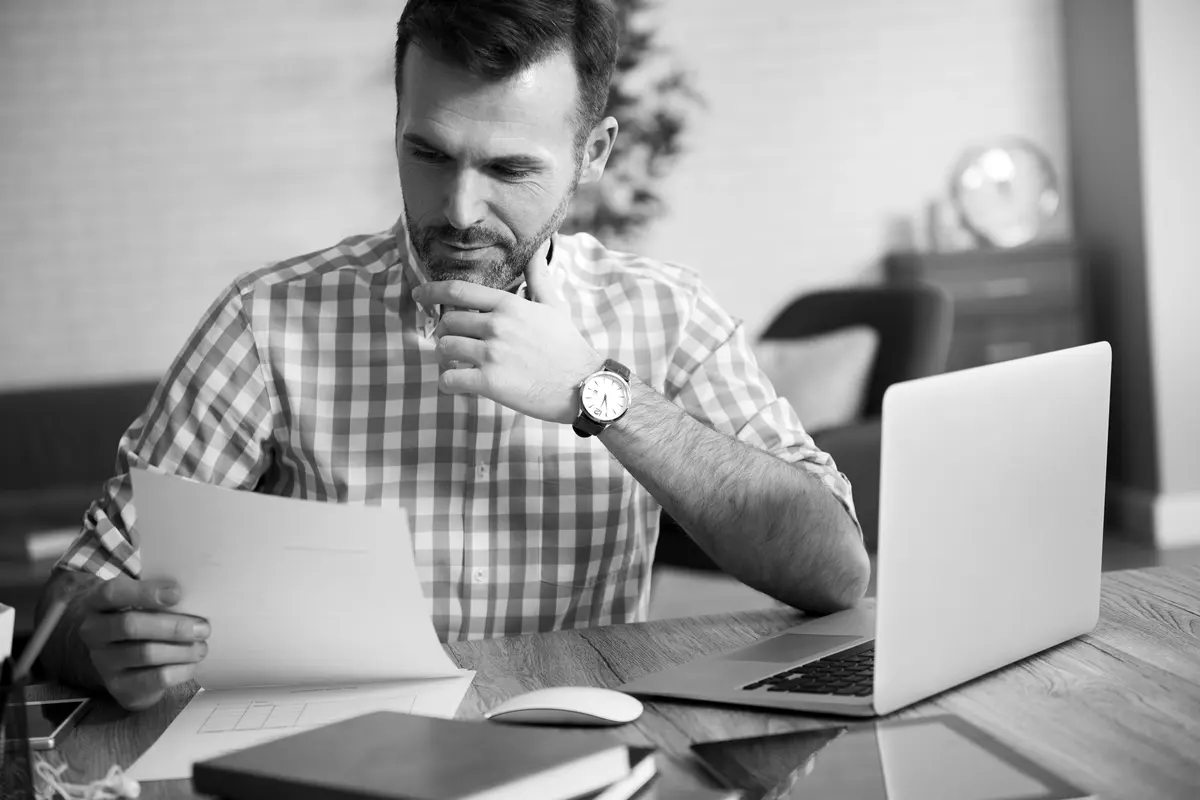
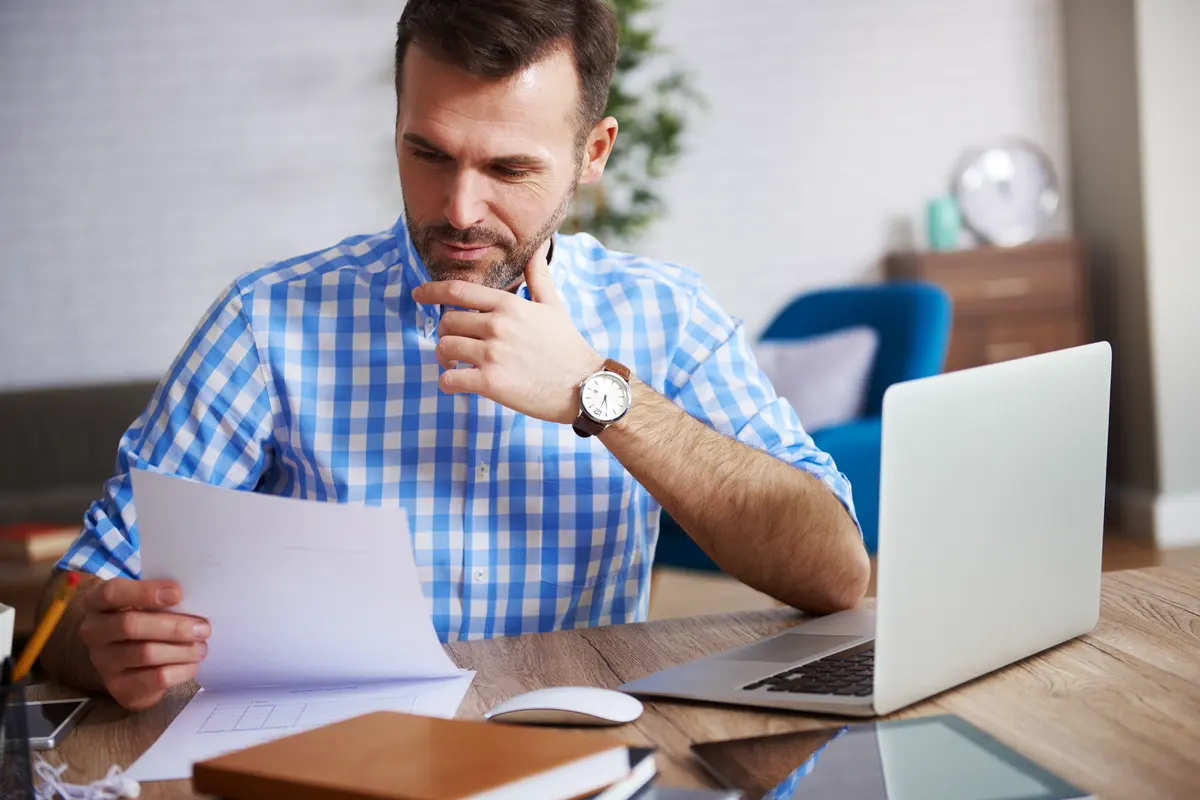
Ajustes visuais: fotos coloridas, destaque verde, cards de situações e ícones nas listas
- Remove o segundo logo do topo no mobile
- 'especializada' em verde
- Atalhos 01/02/03 do topo com fundo translúcido mais claro
- Regiões sem o RJ riscado
- Situações em cards com ícones
- Listas com ícones de check no lugar dos traços

Claude-Session: https://claude.ai/code/session_01QwhNRGadjS8GQLV6cqAxXe

diff --git a/index.html b/index.html
@@ -54,11 +54,11 @@
   <div aria-hidden="true" style="position:absolute; inset:0; background:rgba(16,16,16,.8)"></div>
   <div aria-hidden="true" style="position:absolute; inset:auto 0 0 0; height:260px; background:linear-gradient(0deg, #101010 0%, rgba(16,16,16,0) 100%)"></div>
   <div style="position:relative; max-width:960px; width:100%; margin:0 auto; padding:190px 24px 40px; display:flex; flex-direction:column; align-items:center; text-align:center; gap:30px">
-    <img decoding="async" width="187" height="203" src="/assets/img/simbolo-branco.png" alt="" aria-hidden="true" style="width:64px; height:auto; display:block; opacity:.9">
+    <img decoding="async" width="187" height="203" class="m-hide" src="/assets/img/simbolo-branco.png" alt="" aria-hidden="true" style="width:64px; height:auto; display:block; opacity:.9">
     <div style="display:flex; gap:14px; align-items:center; font-size:12px; letter-spacing:.28em; color:#F2F2F2">
       <span style="width:32px; height:1px; background:#25D366" aria-hidden="true"></span>DR. LUIS VAZ · DIREITO BANCÁRIO<span style="width:32px; height:1px; background:#25D366" aria-hidden="true"></span>
     </div>
-    <h1 style="margin:0; font-family:Manrope, sans-serif; font-weight:600; letter-spacing:-.03em; font-size:clamp(40px, 6vw, 76px); line-height:1.04">Problemas com bancos exigem uma análise <em style="color:#888888; font-style:normal">especializada.</em></h1>
+    <h1 style="margin:0; font-family:Manrope, sans-serif; font-weight:600; letter-spacing:-.03em; font-size:clamp(40px, 6vw, 76px); line-height:1.04">Problemas com bancos exigem uma análise <em style="color:#25D366; font-style:normal">especializada.</em></h1>
     <p style="margin:0; max-width:600px; font-size:18px; line-height:1.6; color:#F2F2F2">Atuação jurídica em contratos bancários, busca e apreensão de veículos e fraudes financeiras, com atendimento online nas regiões Sul e Sudeste.</p>
     <div style="display:flex; flex-direction:column; gap:14px; align-items:center">
       <a class="cta" href="#form" style="border-radius:12px; text-decoration:none; display:inline-flex; align-items:center; gap:12px; background:#25D366; color:#101010; padding:18px 30px; font-weight:600; font-size:16px; min-height:56px">
@@ -70,9 +70,9 @@
   </div>
   <div style="position:relative; max-width:1000px; width:100%; margin:0 auto; padding:32px 24px 48px">
     <div style="display:grid; grid-template-columns:repeat(auto-fit, minmax(240px, 1fr)); gap:12px">
-      <a href="#revisional" style="text-decoration:none; padding:18px 20px; display:flex; gap:14px; align-items:center; justify-content:center; color:#FFFFFF; background:rgba(255,255,255,.06); border:1px solid rgba(255,255,255,.16); border-radius:14px"><span style="font-family:Manrope, sans-serif; font-weight:700; font-size:15px; color:#25D366">01</span><span style="font-size:15px">Revisional de contratos</span></a>
-      <a href="#busca-e-apreensao" style="text-decoration:none; padding:18px 20px; display:flex; gap:14px; align-items:center; justify-content:center; color:#FFFFFF; background:rgba(255,255,255,.06); border:1px solid rgba(255,255,255,.16); border-radius:14px"><span style="font-family:Manrope, sans-serif; font-weight:700; font-size:15px; color:#25D366">02</span><span style="font-size:15px">Busca e apreensão</span></a>
-      <a href="#fraudes" style="text-decoration:none; padding:18px 20px; display:flex; gap:14px; align-items:center; justify-content:center; color:#FFFFFF; background:rgba(255,255,255,.06); border:1px solid rgba(255,255,255,.16); border-radius:14px"><span style="font-family:Manrope, sans-serif; font-weight:700; font-size:15px; color:#25D366">03</span><span style="font-size:15px">Fraudes bancárias</span></a>
+      <a href="#revisional" style="text-decoration:none; padding:18px 20px; display:flex; gap:14px; align-items:center; justify-content:center; color:#FFFFFF; background:rgba(255,255,255,.16); border:1px solid rgba(255,255,255,.34); border-radius:14px; backdrop-filter:blur(10px); -webkit-backdrop-filter:blur(10px); font-weight:500"><span style="font-family:Manrope, sans-serif; font-weight:700; font-size:15px; color:#25D366">01</span><span style="font-size:15px">Revisional de contratos</span></a>
+      <a href="#busca-e-apreensao" style="text-decoration:none; padding:18px 20px; display:flex; gap:14px; align-items:center; justify-content:center; color:#FFFFFF; background:rgba(255,255,255,.16); border:1px solid rgba(255,255,255,.34); border-radius:14px; backdrop-filter:blur(10px); -webkit-backdrop-filter:blur(10px); font-weight:500"><span style="font-family:Manrope, sans-serif; font-weight:700; font-size:15px; color:#25D366">02</span><span style="font-size:15px">Busca e apreensão</span></a>
+      <a href="#fraudes" style="text-decoration:none; padding:18px 20px; display:flex; gap:14px; align-items:center; justify-content:center; color:#FFFFFF; background:rgba(255,255,255,.16); border:1px solid rgba(255,255,255,.34); border-radius:14px; backdrop-filter:blur(10px); -webkit-backdrop-filter:blur(10px); font-weight:500"><span style="font-family:Manrope, sans-serif; font-weight:700; font-size:15px; color:#25D366">03</span><span style="font-size:15px">Fraudes bancárias</span></a>
     </div>
   </div>
 </section>
@@ -109,9 +109,7 @@
         <span style="width:48px; height:48px; border-radius:12px; background:#292929; color:#FFFFFF; display:flex; align-items:center; justify-content:center; font-size:14px; font-weight:600">SP</span>
         <span style="width:48px; height:48px; border-radius:12px; background:#292929; color:#FFFFFF; display:flex; align-items:center; justify-content:center; font-size:14px; font-weight:600">MG</span>
         <span style="width:48px; height:48px; border-radius:12px; background:#292929; color:#FFFFFF; display:flex; align-items:center; justify-content:center; font-size:14px; font-weight:600">ES</span>
-        <span style="width:48px; height:48px; border-radius:12px; border:1px dashed #888888; color:#292929; display:flex; align-items:center; justify-content:center; font-size:14px; text-decoration:line-through">RJ</span>
       </div>
-      <span style="font-size:13px; color:#292929">Regiões Sul e Sudeste, exceto Rio de Janeiro.</span>
     </div>
   </div>
 </section>
@@ -128,14 +126,32 @@
         <span style="font-size:12px; letter-spacing:.28em; color:#292929">SITUAÇÕES QUE ATENDEMOS</span>
         <h2 style="margin:0; font-family:Manrope, sans-serif; font-weight:600; letter-spacing:-.025em; font-size:clamp(30px, 3.6vw, 44px); line-height:1.12">Quando a relação com o banco se torna um problema, conhecer seus direitos é <em style="font-style:normal; color:#888888">fundamental.</em></h2>
       </div>
-      <ul style="margin:0; padding:0; list-style:none; display:grid; grid-template-columns:repeat(auto-fit, minmax(230px, 1fr)); column-gap:32px">
-        <li style="border-top:1px solid #101010; padding:18px 0 22px; display:flex; gap:14px; align-items:flex-start"><span style="font-family:Manrope, sans-serif; font-weight:600; font-size:20px; color:#292929; min-width:24px">i.</span><span style="font-size:16px; line-height:1.45">Juros e encargos em contratos bancários.</span></li>
-        <li style="border-top:1px solid #101010; padding:18px 0 22px; display:flex; gap:14px; align-items:flex-start"><span style="font-family:Manrope, sans-serif; font-weight:600; font-size:20px; color:#292929; min-width:24px">ii.</span><span style="font-size:16px; line-height:1.45">Parcelas de financiamento que se tornaram difíceis de administrar.</span></li>
-        <li style="border-top:1px solid #101010; padding:18px 0 22px; display:flex; gap:14px; align-items:flex-start"><span style="font-family:Manrope, sans-serif; font-weight:600; font-size:20px; color:#292929; min-width:24px">iii.</span><span style="font-size:16px; line-height:1.45">Veículo apreendido ou sob risco de apreensão.</span></li>
-        <li style="border-top:1px solid #101010; padding:18px 0 22px; display:flex; gap:14px; align-items:flex-start"><span style="font-family:Manrope, sans-serif; font-weight:600; font-size:20px; color:#292929; min-width:24px">iv.</span><span style="font-size:16px; line-height:1.45">Transações bancárias não reconhecidas.</span></li>
-        <li style="border-top:1px solid #101010; padding:18px 0 22px; display:flex; gap:14px; align-items:flex-start"><span style="font-family:Manrope, sans-serif; font-weight:600; font-size:20px; color:#292929; min-width:24px">v.</span><span style="font-size:16px; line-height:1.45">Golpes financeiros e PIX não autorizado.</span></li>
-        <li style="border-top:1px solid #101010; padding:18px 0 22px; display:flex; gap:14px; align-items:flex-start"><span style="font-family:Manrope, sans-serif; font-weight:600; font-size:20px; color:#292929; min-width:24px">vi.</span><span style="font-size:16px; line-height:1.45">Dívidas empresariais com instituições financeiras.</span></li>
-      </ul>
+      <div style="display:grid; grid-template-columns:repeat(auto-fit, minmax(240px, 1fr)); gap:12px">
+        <div class="sit" style="border-radius:16px; background:#F2F2F2; padding:20px; display:flex; gap:16px; align-items:flex-start">
+          <span aria-hidden="true" style="width:46px; height:46px; border-radius:13px; background:#101010; display:flex; align-items:center; justify-content:center; flex:0 0 auto"><svg width="22" height="22" viewBox="0 0 24 24" fill="none" stroke="#25D366" stroke-width="1.8" stroke-linecap="round" stroke-linejoin="round"><line x1="19" y1="5" x2="5" y2="19"></line><circle cx="6.5" cy="6.5" r="2.5"></circle><circle cx="17.5" cy="17.5" r="2.5"></circle></svg></span>
+          <div style="display:flex; flex-direction:column; gap:4px"><strong style="font-family:Manrope, sans-serif; font-weight:700; font-size:16px; letter-spacing:-.01em">Juros e encargos</strong><span style="font-size:14px; line-height:1.5; color:#292929">Juros e encargos em contratos bancários.</span></div>
+        </div>
+        <div class="sit" style="border-radius:16px; background:#F2F2F2; padding:20px; display:flex; gap:16px; align-items:flex-start">
+          <span aria-hidden="true" style="width:46px; height:46px; border-radius:13px; background:#101010; display:flex; align-items:center; justify-content:center; flex:0 0 auto"><svg width="22" height="22" viewBox="0 0 24 24" fill="none" stroke="#25D366" stroke-width="1.8" stroke-linecap="round" stroke-linejoin="round"><rect x="3" y="4" width="18" height="18" rx="2"></rect><path d="M16 2v4M8 2v4M3 10h18"></path><path d="M8 15h3"></path></svg></span>
+          <div style="display:flex; flex-direction:column; gap:4px"><strong style="font-family:Manrope, sans-serif; font-weight:700; font-size:16px; letter-spacing:-.01em">Financiamento</strong><span style="font-size:14px; line-height:1.5; color:#292929">Parcelas de financiamento que se tornaram difíceis de administrar.</span></div>
+        </div>
+        <div class="sit" style="border-radius:16px; background:#F2F2F2; padding:20px; display:flex; gap:16px; align-items:flex-start">
+          <span aria-hidden="true" style="width:46px; height:46px; border-radius:13px; background:#101010; display:flex; align-items:center; justify-content:center; flex:0 0 auto"><svg width="22" height="22" viewBox="0 0 24 24" fill="none" stroke="#25D366" stroke-width="1.8" stroke-linecap="round" stroke-linejoin="round"><path d="M5 17H3v-5l2.2-5.5A2 2 0 0 1 7.1 5h9.8a2 2 0 0 1 1.9 1.5L21 12v5h-2"></path><path d="M9 17h6"></path><circle cx="7" cy="17" r="2"></circle><circle cx="17" cy="17" r="2"></circle><path d="M3 12h18"></path></svg></span>
+          <div style="display:flex; flex-direction:column; gap:4px"><strong style="font-family:Manrope, sans-serif; font-weight:700; font-size:16px; letter-spacing:-.01em">Veículo</strong><span style="font-size:14px; line-height:1.5; color:#292929">Veículo apreendido ou sob risco de apreensão.</span></div>
+        </div>
+        <div class="sit" style="border-radius:16px; background:#F2F2F2; padding:20px; display:flex; gap:16px; align-items:flex-start">
+          <span aria-hidden="true" style="width:46px; height:46px; border-radius:13px; background:#101010; display:flex; align-items:center; justify-content:center; flex:0 0 auto"><svg width="22" height="22" viewBox="0 0 24 24" fill="none" stroke="#25D366" stroke-width="1.8" stroke-linecap="round" stroke-linejoin="round"><rect x="2" y="5" width="20" height="14" rx="2"></rect><path d="M2 10h20"></path><path d="m15 14 3 3M18 14l-3 3"></path></svg></span>
+          <div style="display:flex; flex-direction:column; gap:4px"><strong style="font-family:Manrope, sans-serif; font-weight:700; font-size:16px; letter-spacing:-.01em">Transações</strong><span style="font-size:14px; line-height:1.5; color:#292929">Transações bancárias não reconhecidas.</span></div>
+        </div>
+        <div class="sit" style="border-radius:16px; background:#F2F2F2; padding:20px; display:flex; gap:16px; align-items:flex-start">
+          <span aria-hidden="true" style="width:46px; height:46px; border-radius:13px; background:#101010; display:flex; align-items:center; justify-content:center; flex:0 0 auto"><svg width="22" height="22" viewBox="0 0 24 24" fill="none" stroke="#25D366" stroke-width="1.8" stroke-linecap="round" stroke-linejoin="round"><rect x="6" y="2" width="12" height="20" rx="2.5"></rect><path d="M12 8v4"></path><path d="M12 16h.01"></path></svg></span>
+          <div style="display:flex; flex-direction:column; gap:4px"><strong style="font-family:Manrope, sans-serif; font-weight:700; font-size:16px; letter-spacing:-.01em">Golpes e PIX</strong><span style="font-size:14px; line-height:1.5; color:#292929">Golpes financeiros e PIX não autorizado.</span></div>
+        </div>
+        <div class="sit" style="border-radius:16px; background:#F2F2F2; padding:20px; display:flex; gap:16px; align-items:flex-start">
+          <span aria-hidden="true" style="width:46px; height:46px; border-radius:13px; background:#101010; display:flex; align-items:center; justify-content:center; flex:0 0 auto"><svg width="22" height="22" viewBox="0 0 24 24" fill="none" stroke="#25D366" stroke-width="1.8" stroke-linecap="round" stroke-linejoin="round"><rect x="4" y="2" width="16" height="20" rx="2"></rect><path d="M9 22v-4h6v4"></path><path d="M8 6h.01M12 6h.01M16 6h.01M8 10h.01M12 10h.01M16 10h.01M8 14h.01M12 14h.01M16 14h.01"></path></svg></span>
+          <div style="display:flex; flex-direction:column; gap:4px"><strong style="font-family:Manrope, sans-serif; font-weight:700; font-size:16px; letter-spacing:-.01em">Empresas</strong><span style="font-size:14px; line-height:1.5; color:#292929">Dívidas empresariais com instituições financeiras.</span></div>
+        </div>
+      </div>
     </div>
   </div>
 </section>
@@ -157,10 +173,10 @@
         <h3 style="margin:0; font-family:Manrope, sans-serif; font-weight:600; letter-spacing:-.025em; font-size:clamp(26px, 2.8vw, 34px); line-height:1.15">Revisional de contratos bancários</h3>
         <p style="margin:0; font-size:16px; line-height:1.65; color:#F2F2F2">Análise técnica de contratos e operações financeiras para identificar cláusulas, encargos e condições que possam ser questionados juridicamente.</p>
         <ul style="margin:0; padding:0; list-style:none; display:grid; grid-template-columns:repeat(2, minmax(0, 1fr)); gap:12px 24px; font-size:15px; color:#F2F2F2">
-          <li style="display:flex; gap:10px; align-items:center"><span style="width:14px; height:1px; background:#25D366; flex:0 0 auto" aria-hidden="true"></span>Financiamento de veículos</li>
-          <li style="display:flex; gap:10px; align-items:center"><span style="width:14px; height:1px; background:#25D366; flex:0 0 auto" aria-hidden="true"></span>Cartão de crédito</li>
-          <li style="display:flex; gap:10px; align-items:center"><span style="width:14px; height:1px; background:#25D366; flex:0 0 auto" aria-hidden="true"></span>Cheque especial</li>
-          <li style="display:flex; gap:10px; align-items:center"><span style="width:14px; height:1px; background:#25D366; flex:0 0 auto" aria-hidden="true"></span>Capital de giro empresarial</li>
+          <li style="display:flex; gap:12px; align-items:center"><span aria-hidden="true" style="width:24px; height:24px; border-radius:8px; background:rgba(37,211,102,.16); display:inline-flex; align-items:center; justify-content:center; flex:0 0 auto"><svg width="14" height="14" viewBox="0 0 24 24" fill="none" stroke="#25D366" stroke-width="2.6" stroke-linecap="round" stroke-linejoin="round"><path d="M20 6 9 17l-5-5"></path></svg></span>Financiamento de veículos</li>
+          <li style="display:flex; gap:12px; align-items:center"><span aria-hidden="true" style="width:24px; height:24px; border-radius:8px; background:rgba(37,211,102,.16); display:inline-flex; align-items:center; justify-content:center; flex:0 0 auto"><svg width="14" height="14" viewBox="0 0 24 24" fill="none" stroke="#25D366" stroke-width="2.6" stroke-linecap="round" stroke-linejoin="round"><path d="M20 6 9 17l-5-5"></path></svg></span>Cartão de crédito</li>
+          <li style="display:flex; gap:12px; align-items:center"><span aria-hidden="true" style="width:24px; height:24px; border-radius:8px; background:rgba(37,211,102,.16); display:inline-flex; align-items:center; justify-content:center; flex:0 0 auto"><svg width="14" height="14" viewBox="0 0 24 24" fill="none" stroke="#25D366" stroke-width="2.6" stroke-linecap="round" stroke-linejoin="round"><path d="M20 6 9 17l-5-5"></path></svg></span>Cheque especial</li>
+          <li style="display:flex; gap:12px; align-items:center"><span aria-hidden="true" style="width:24px; height:24px; border-radius:8px; background:rgba(37,211,102,.16); display:inline-flex; align-items:center; justify-content:center; flex:0 0 auto"><svg width="14" height="14" viewBox="0 0 24 24" fill="none" stroke="#25D366" stroke-width="2.6" stroke-linecap="round" stroke-linejoin="round"><path d="M20 6 9 17l-5-5"></path></svg></span>Capital de giro empresarial</li>
         </ul>
         <p style="margin:0; font-size:13px; color:#888888; border-top:1px solid #292929; padding-top:14px">Contratos a partir de R$ 20 mil. Não atendemos financiamento imobiliário nem contratos relacionados ao FGI.</p>
       </div>
@@ -175,11 +191,11 @@
         <h3 style="margin:0; font-family:Manrope, sans-serif; font-weight:600; letter-spacing:-.025em; font-size:clamp(26px, 2.8vw, 34px); line-height:1.15">Busca e apreensão de veículos</h3>
         <p style="margin:0; font-size:16px; line-height:1.65; color:#F2F2F2">Atuação jurídica na defesa dos direitos de quem enfrenta uma ação de busca e apreensão ou já teve seu veículo apreendido.</p>
         <ul style="margin:0; padding:0; list-style:none; display:flex; flex-direction:column; gap:12px; font-size:15px; color:#F2F2F2">
-          <li style="display:flex; gap:10px; align-items:center"><span style="width:14px; height:1px; background:#25D366; flex:0 0 auto" aria-hidden="true"></span>Defesa em ações de busca e apreensão</li>
-          <li style="display:flex; gap:10px; align-items:center"><span style="width:14px; height:1px; background:#25D366; flex:0 0 auto" aria-hidden="true"></span>Análise das condições da apreensão</li>
-          <li style="display:flex; gap:10px; align-items:center"><span style="width:14px; height:1px; background:#25D366; flex:0 0 auto" aria-hidden="true"></span>Possibilidades jurídicas para recuperação do veículo</li>
-          <li style="display:flex; gap:10px; align-items:center"><span style="width:14px; height:1px; background:#25D366; flex:0 0 auto" aria-hidden="true"></span>Revisão das condições contratuais</li>
-          <li style="display:flex; gap:10px; align-items:center"><span style="width:14px; height:1px; background:#25D366; flex:0 0 auto" aria-hidden="true"></span>Apreensões potencialmente ilegais</li>
+          <li style="display:flex; gap:12px; align-items:center"><span aria-hidden="true" style="width:24px; height:24px; border-radius:8px; background:rgba(37,211,102,.16); display:inline-flex; align-items:center; justify-content:center; flex:0 0 auto"><svg width="14" height="14" viewBox="0 0 24 24" fill="none" stroke="#25D366" stroke-width="2.6" stroke-linecap="round" stroke-linejoin="round"><path d="M20 6 9 17l-5-5"></path></svg></span>Defesa em ações de busca e apreensão</li>
+          <li style="display:flex; gap:12px; align-items:center"><span aria-hidden="true" style="width:24px; height:24px; border-radius:8px; background:rgba(37,211,102,.16); display:inline-flex; align-items:center; justify-content:center; flex:0 0 auto"><svg width="14" height="14" viewBox="0 0 24 24" fill="none" stroke="#25D366" stroke-width="2.6" stroke-linecap="round" stroke-linejoin="round"><path d="M20 6 9 17l-5-5"></path></svg></span>Análise das condições da apreensão</li>
+          <li style="display:flex; gap:12px; align-items:center"><span aria-hidden="true" style="width:24px; height:24px; border-radius:8px; background:rgba(37,211,102,.16); display:inline-flex; align-items:center; justify-content:center; flex:0 0 auto"><svg width="14" height="14" viewBox="0 0 24 24" fill="none" stroke="#25D366" stroke-width="2.6" stroke-linecap="round" stroke-linejoin="round"><path d="M20 6 9 17l-5-5"></path></svg></span>Possibilidades jurídicas para recuperação do veículo</li>
+          <li style="display:flex; gap:12px; align-items:center"><span aria-hidden="true" style="width:24px; height:24px; border-radius:8px; background:rgba(37,211,102,.16); display:inline-flex; align-items:center; justify-content:center; flex:0 0 auto"><svg width="14" height="14" viewBox="0 0 24 24" fill="none" stroke="#25D366" stroke-width="2.6" stroke-linecap="round" stroke-linejoin="round"><path d="M20 6 9 17l-5-5"></path></svg></span>Revisão das condições contratuais</li>
+          <li style="display:flex; gap:12px; align-items:center"><span aria-hidden="true" style="width:24px; height:24px; border-radius:8px; background:rgba(37,211,102,.16); display:inline-flex; align-items:center; justify-content:center; flex:0 0 auto"><svg width="14" height="14" viewBox="0 0 24 24" fill="none" stroke="#25D366" stroke-width="2.6" stroke-linecap="round" stroke-linejoin="round"><path d="M20 6 9 17l-5-5"></path></svg></span>Apreensões potencialmente ilegais</li>
         </ul>
         <p style="margin:0; font-size:13px; color:#888888; border-top:1px solid #292929; padding-top:14px">Veículos a partir de R$ 30 mil.</p>
       </div>
@@ -194,11 +210,11 @@
         <h3 style="margin:0; font-family:Manrope, sans-serif; font-weight:600; letter-spacing:-.025em; font-size:clamp(26px, 2.8vw, 34px); line-height:1.15">Fraudes bancárias</h3>
         <p style="margin:0; font-size:16px; line-height:1.65; color:#F2F2F2">Atuação jurídica em situações envolvendo movimentações financeiras não reconhecidas e prejuízos decorrentes de fraudes bancárias. Cada situação depende da análise dos fatos e das provas.</p>
         <ul style="margin:0; padding:0; list-style:none; display:grid; grid-template-columns:repeat(2, minmax(0, 1fr)); gap:12px 24px; font-size:15px; color:#F2F2F2">
-          <li style="display:flex; gap:10px; align-items:center"><span style="width:14px; height:1px; background:#25D366; flex:0 0 auto" aria-hidden="true"></span>Golpe do PIX</li>
-          <li style="display:flex; gap:10px; align-items:center"><span style="width:14px; height:1px; background:#25D366; flex:0 0 auto" aria-hidden="true"></span>Golpe da falsa central</li>
-          <li style="display:flex; gap:10px; align-items:center"><span style="width:14px; height:1px; background:#25D366; flex:0 0 auto" aria-hidden="true"></span>Invasão de contas</li>
-          <li style="display:flex; gap:10px; align-items:center"><span style="width:14px; height:1px; background:#25D366; flex:0 0 auto" aria-hidden="true"></span>Empréstimos não reconhecidos</li>
-          <li style="display:flex; gap:10px; align-items:center"><span style="width:14px; height:1px; background:#25D366; flex:0 0 auto" aria-hidden="true"></span>Transações não autorizadas</li>
+          <li style="display:flex; gap:12px; align-items:center"><span aria-hidden="true" style="width:24px; height:24px; border-radius:8px; background:rgba(37,211,102,.16); display:inline-flex; align-items:center; justify-content:center; flex:0 0 auto"><svg width="14" height="14" viewBox="0 0 24 24" fill="none" stroke="#25D366" stroke-width="2.6" stroke-linecap="round" stroke-linejoin="round"><path d="M20 6 9 17l-5-5"></path></svg></span>Golpe do PIX</li>
+          <li style="display:flex; gap:12px; align-items:center"><span aria-hidden="true" style="width:24px; height:24px; border-radius:8px; background:rgba(37,211,102,.16); display:inline-flex; align-items:center; justify-content:center; flex:0 0 auto"><svg width="14" height="14" viewBox="0 0 24 24" fill="none" stroke="#25D366" stroke-width="2.6" stroke-linecap="round" stroke-linejoin="round"><path d="M20 6 9 17l-5-5"></path></svg></span>Golpe da falsa central</li>
+          <li style="display:flex; gap:12px; align-items:center"><span aria-hidden="true" style="width:24px; height:24px; border-radius:8px; background:rgba(37,211,102,.16); display:inline-flex; align-items:center; justify-content:center; flex:0 0 auto"><svg width="14" height="14" viewBox="0 0 24 24" fill="none" stroke="#25D366" stroke-width="2.6" stroke-linecap="round" stroke-linejoin="round"><path d="M20 6 9 17l-5-5"></path></svg></span>Invasão de contas</li>
+          <li style="display:flex; gap:12px; align-items:center"><span aria-hidden="true" style="width:24px; height:24px; border-radius:8px; background:rgba(37,211,102,.16); display:inline-flex; align-items:center; justify-content:center; flex:0 0 auto"><svg width="14" height="14" viewBox="0 0 24 24" fill="none" stroke="#25D366" stroke-width="2.6" stroke-linecap="round" stroke-linejoin="round"><path d="M20 6 9 17l-5-5"></path></svg></span>Empréstimos não reconhecidos</li>
+          <li style="display:flex; gap:12px; align-items:center"><span aria-hidden="true" style="width:24px; height:24px; border-radius:8px; background:rgba(37,211,102,.16); display:inline-flex; align-items:center; justify-content:center; flex:0 0 auto"><svg width="14" height="14" viewBox="0 0 24 24" fill="none" stroke="#25D366" stroke-width="2.6" stroke-linecap="round" stroke-linejoin="round"><path d="M20 6 9 17l-5-5"></path></svg></span>Transações não autorizadas</li>
         </ul>
         <p style="margin:0; font-size:13px; color:#888888; border-top:1px solid #292929; padding-top:14px">Prejuízos a partir de R$ 20 mil.</p>
       </div>
@@ -316,21 +332,21 @@
     </div>
     <div style="display:grid; grid-template-columns:repeat(auto-fit, minmax(260px, 1fr)); gap:16px">
       <div style="border-radius:18px; background:#F2F2F2; padding:32px; display:flex; flex-direction:column; gap:18px">
-        <div style="display:flex; gap:14px; align-items:center"><svg width="30" height="30" viewBox="0 0 28 28" fill="none" stroke="#101010" stroke-width="1.4" aria-hidden="true"><path d="M3 8h8l2 3h12v13H3z"></path></svg><h3 style="margin:0; font-size:13px; letter-spacing:.2em; font-weight:600">BUSCA E APREENSÃO</h3></div>
+        <div style="display:flex; gap:14px; align-items:center"><span aria-hidden="true" style="width:44px; height:44px; border-radius:12px; background:#FFFFFF; display:flex; align-items:center; justify-content:center; flex:0 0 auto"><svg width="22" height="22" viewBox="0 0 24 24" fill="none" stroke="#101010" stroke-width="1.8" stroke-linecap="round" stroke-linejoin="round"><path d="M14 2H6a2 2 0 0 0-2 2v16a2 2 0 0 0 2 2h12a2 2 0 0 0 2-2V8z"></path><path d="M14 2v6h6"></path><path d="m9 15 2 2 4-4"></path></svg></span><h3 style="margin:0; font-size:13px; letter-spacing:.2em; font-weight:600">BUSCA E APREENSÃO</h3></div>
         <ul style="margin:0; padding:0; list-style:none; display:flex; flex-direction:column; gap:12px; font-size:15px; line-height:1.45; color:#292929">
-          <li style="display:flex; gap:10px; align-items:baseline"><span style="color:#101010" aria-hidden="true">—</span>Contrato de financiamento</li><li style="display:flex; gap:10px; align-items:baseline"><span style="color:#101010" aria-hidden="true">—</span>Notificações recebidas</li><li style="display:flex; gap:10px; align-items:baseline"><span style="color:#101010" aria-hidden="true">—</span>Informações sobre parcelas atrasadas</li><li style="display:flex; gap:10px; align-items:baseline"><span style="color:#101010" aria-hidden="true">—</span>Documentos da apreensão, quando houver</li>
+          <li style="display:flex; gap:12px; align-items:center"><span aria-hidden="true" style="width:24px; height:24px; border-radius:8px; background:#101010; display:inline-flex; align-items:center; justify-content:center; flex:0 0 auto"><svg width="14" height="14" viewBox="0 0 24 24" fill="none" stroke="#25D366" stroke-width="2.6" stroke-linecap="round" stroke-linejoin="round"><path d="M20 6 9 17l-5-5"></path></svg></span>Contrato de financiamento</li><li style="display:flex; gap:12px; align-items:center"><span aria-hidden="true" style="width:24px; height:24px; border-radius:8px; background:#101010; display:inline-flex; align-items:center; justify-content:center; flex:0 0 auto"><svg width="14" height="14" viewBox="0 0 24 24" fill="none" stroke="#25D366" stroke-width="2.6" stroke-linecap="round" stroke-linejoin="round"><path d="M20 6 9 17l-5-5"></path></svg></span>Notificações recebidas</li><li style="display:flex; gap:12px; align-items:center"><span aria-hidden="true" style="width:24px; height:24px; border-radius:8px; background:#101010; display:inline-flex; align-items:center; justify-content:center; flex:0 0 auto"><svg width="14" height="14" viewBox="0 0 24 24" fill="none" stroke="#25D366" stroke-width="2.6" stroke-linecap="round" stroke-linejoin="round"><path d="M20 6 9 17l-5-5"></path></svg></span>Informações sobre parcelas atrasadas</li><li style="display:flex; gap:12px; align-items:center"><span aria-hidden="true" style="width:24px; height:24px; border-radius:8px; background:#101010; display:inline-flex; align-items:center; justify-content:center; flex:0 0 auto"><svg width="14" height="14" viewBox="0 0 24 24" fill="none" stroke="#25D366" stroke-width="2.6" stroke-linecap="round" stroke-linejoin="round"><path d="M20 6 9 17l-5-5"></path></svg></span>Documentos da apreensão, quando houver</li>
         </ul>
       </div>
       <div style="border-radius:18px; background:#101010; color:#FFFFFF; padding:32px; display:flex; flex-direction:column; gap:18px">
-        <div style="display:flex; gap:14px; align-items:center"><svg width="30" height="30" viewBox="0 0 28 28" fill="none" stroke="#FFFFFF" stroke-width="1.4" aria-hidden="true"><path d="M3 8h8l2 3h12v13H3z"></path></svg><h3 style="margin:0; font-size:13px; letter-spacing:.2em; font-weight:600">REVISIONAL</h3></div>
+        <div style="display:flex; gap:14px; align-items:center"><span aria-hidden="true" style="width:44px; height:44px; border-radius:12px; background:rgba(37,211,102,.16); display:flex; align-items:center; justify-content:center; flex:0 0 auto"><svg width="22" height="22" viewBox="0 0 24 24" fill="none" stroke="#25D366" stroke-width="1.8" stroke-linecap="round" stroke-linejoin="round"><path d="M14 2H6a2 2 0 0 0-2 2v16a2 2 0 0 0 2 2h12a2 2 0 0 0 2-2V8z"></path><path d="M14 2v6h6"></path><path d="m9 15 2 2 4-4"></path></svg></span><h3 style="margin:0; font-size:13px; letter-spacing:.2em; font-weight:600">REVISIONAL</h3></div>
         <ul style="margin:0; padding:0; list-style:none; display:flex; flex-direction:column; gap:12px; font-size:15px; line-height:1.45; color:#F2F2F2">
-          <li style="display:flex; gap:10px; align-items:baseline"><span style="color:#25D366" aria-hidden="true">—</span>Contrato bancário</li><li style="display:flex; gap:10px; align-items:baseline"><span style="color:#25D366" aria-hidden="true">—</span>Demonstrativos e extratos</li><li style="display:flex; gap:10px; align-items:baseline"><span style="color:#25D366" aria-hidden="true">—</span>Comprovantes de pagamento</li><li style="display:flex; gap:10px; align-items:baseline"><span style="color:#25D366" aria-hidden="true">—</span>Informações sobre a operação financeira</li>
+          <li style="display:flex; gap:12px; align-items:center"><span aria-hidden="true" style="width:24px; height:24px; border-radius:8px; background:rgba(37,211,102,.16); display:inline-flex; align-items:center; justify-content:center; flex:0 0 auto"><svg width="14" height="14" viewBox="0 0 24 24" fill="none" stroke="#25D366" stroke-width="2.6" stroke-linecap="round" stroke-linejoin="round"><path d="M20 6 9 17l-5-5"></path></svg></span>Contrato bancário</li><li style="display:flex; gap:12px; align-items:center"><span aria-hidden="true" style="width:24px; height:24px; border-radius:8px; background:rgba(37,211,102,.16); display:inline-flex; align-items:center; justify-content:center; flex:0 0 auto"><svg width="14" height="14" viewBox="0 0 24 24" fill="none" stroke="#25D366" stroke-width="2.6" stroke-linecap="round" stroke-linejoin="round"><path d="M20 6 9 17l-5-5"></path></svg></span>Demonstrativos e extratos</li><li style="display:flex; gap:12px; align-items:center"><span aria-hidden="true" style="width:24px; height:24px; border-radius:8px; background:rgba(37,211,102,.16); display:inline-flex; align-items:center; justify-content:center; flex:0 0 auto"><svg width="14" height="14" viewBox="0 0 24 24" fill="none" stroke="#25D366" stroke-width="2.6" stroke-linecap="round" stroke-linejoin="round"><path d="M20 6 9 17l-5-5"></path></svg></span>Comprovantes de pagamento</li><li style="display:flex; gap:12px; align-items:center"><span aria-hidden="true" style="width:24px; height:24px; border-radius:8px; background:rgba(37,211,102,.16); display:inline-flex; align-items:center; justify-content:center; flex:0 0 auto"><svg width="14" height="14" viewBox="0 0 24 24" fill="none" stroke="#25D366" stroke-width="2.6" stroke-linecap="round" stroke-linejoin="round"><path d="M20 6 9 17l-5-5"></path></svg></span>Informações sobre a operação financeira</li>
         </ul>
       </div>
       <div style="border-radius:18px; background:#F2F2F2; padding:32px; display:flex; flex-direction:column; gap:18px">
-        <div style="display:flex; gap:14px; align-items:center"><svg width="30" height="30" viewBox="0 0 28 28" fill="none" stroke="#101010" stroke-width="1.4" aria-hidden="true"><path d="M3 8h8l2 3h12v13H3z"></path></svg><h3 style="margin:0; font-size:13px; letter-spacing:.2em; font-weight:600">FRAUDES BANCÁRIAS</h3></div>
+        <div style="display:flex; gap:14px; align-items:center"><span aria-hidden="true" style="width:44px; height:44px; border-radius:12px; background:#FFFFFF; display:flex; align-items:center; justify-content:center; flex:0 0 auto"><svg width="22" height="22" viewBox="0 0 24 24" fill="none" stroke="#101010" stroke-width="1.8" stroke-linecap="round" stroke-linejoin="round"><path d="M14 2H6a2 2 0 0 0-2 2v16a2 2 0 0 0 2 2h12a2 2 0 0 0 2-2V8z"></path><path d="M14 2v6h6"></path><path d="m9 15 2 2 4-4"></path></svg></span><h3 style="margin:0; font-size:13px; letter-spacing:.2em; font-weight:600">FRAUDES BANCÁRIAS</h3></div>
         <ul style="margin:0; padding:0; list-style:none; display:flex; flex-direction:column; gap:12px; font-size:15px; line-height:1.45; color:#292929">
-          <li style="display:flex; gap:10px; align-items:baseline"><span style="color:#101010" aria-hidden="true">—</span>Comprovantes das transações</li><li style="display:flex; gap:10px; align-items:baseline"><span style="color:#101010" aria-hidden="true">—</span>Protocolos de atendimento</li><li style="display:flex; gap:10px; align-items:baseline"><span style="color:#101010" aria-hidden="true">—</span>Boletim de ocorrência, quando existente</li><li style="display:flex; gap:10px; align-items:baseline"><span style="color:#101010" aria-hidden="true">—</span>Respostas do banco</li><li style="display:flex; gap:10px; align-items:baseline"><span style="color:#101010" aria-hidden="true">—</span>Extratos bancários</li>
+          <li style="display:flex; gap:12px; align-items:center"><span aria-hidden="true" style="width:24px; height:24px; border-radius:8px; background:#101010; display:inline-flex; align-items:center; justify-content:center; flex:0 0 auto"><svg width="14" height="14" viewBox="0 0 24 24" fill="none" stroke="#25D366" stroke-width="2.6" stroke-linecap="round" stroke-linejoin="round"><path d="M20 6 9 17l-5-5"></path></svg></span>Comprovantes das transações</li><li style="display:flex; gap:12px; align-items:center"><span aria-hidden="true" style="width:24px; height:24px; border-radius:8px; background:#101010; display:inline-flex; align-items:center; justify-content:center; flex:0 0 auto"><svg width="14" height="14" viewBox="0 0 24 24" fill="none" stroke="#25D366" stroke-width="2.6" stroke-linecap="round" stroke-linejoin="round"><path d="M20 6 9 17l-5-5"></path></svg></span>Protocolos de atendimento</li><li style="display:flex; gap:12px; align-items:center"><span aria-hidden="true" style="width:24px; height:24px; border-radius:8px; background:#101010; display:inline-flex; align-items:center; justify-content:center; flex:0 0 auto"><svg width="14" height="14" viewBox="0 0 24 24" fill="none" stroke="#25D366" stroke-width="2.6" stroke-linecap="round" stroke-linejoin="round"><path d="M20 6 9 17l-5-5"></path></svg></span>Boletim de ocorrência, quando existente</li><li style="display:flex; gap:12px; align-items:center"><span aria-hidden="true" style="width:24px; height:24px; border-radius:8px; background:#101010; display:inline-flex; align-items:center; justify-content:center; flex:0 0 auto"><svg width="14" height="14" viewBox="0 0 24 24" fill="none" stroke="#25D366" stroke-width="2.6" stroke-linecap="round" stroke-linejoin="round"><path d="M20 6 9 17l-5-5"></path></svg></span>Respostas do banco</li><li style="display:flex; gap:12px; align-items:center"><span aria-hidden="true" style="width:24px; height:24px; border-radius:8px; background:#101010; display:inline-flex; align-items:center; justify-content:center; flex:0 0 auto"><svg width="14" height="14" viewBox="0 0 24 24" fill="none" stroke="#25D366" stroke-width="2.6" stroke-linecap="round" stroke-linejoin="round"><path d="M20 6 9 17l-5-5"></path></svg></span>Extratos bancários</li>
         </ul>
       </div>
     </div>

diff --git a/assets/css/lp.css b/assets/css/lp.css
@@ -77,3 +77,8 @@ section[id],#form{scroll-margin-top:16px}
   .f-btn{font-size:15px;padding:0 16px}
   #como-funciona li > div:first-child{gap:14px}
 }
+
+/* Cards de situações */
+.sit{transition:transform .25s ease,box-shadow .25s ease}
+.sit:hover{transform:translateY(-3px);box-shadow:0 14px 30px rgba(16,16,16,.08)}
+@media (max-width:720px){.sit{flex-direction:column}}
